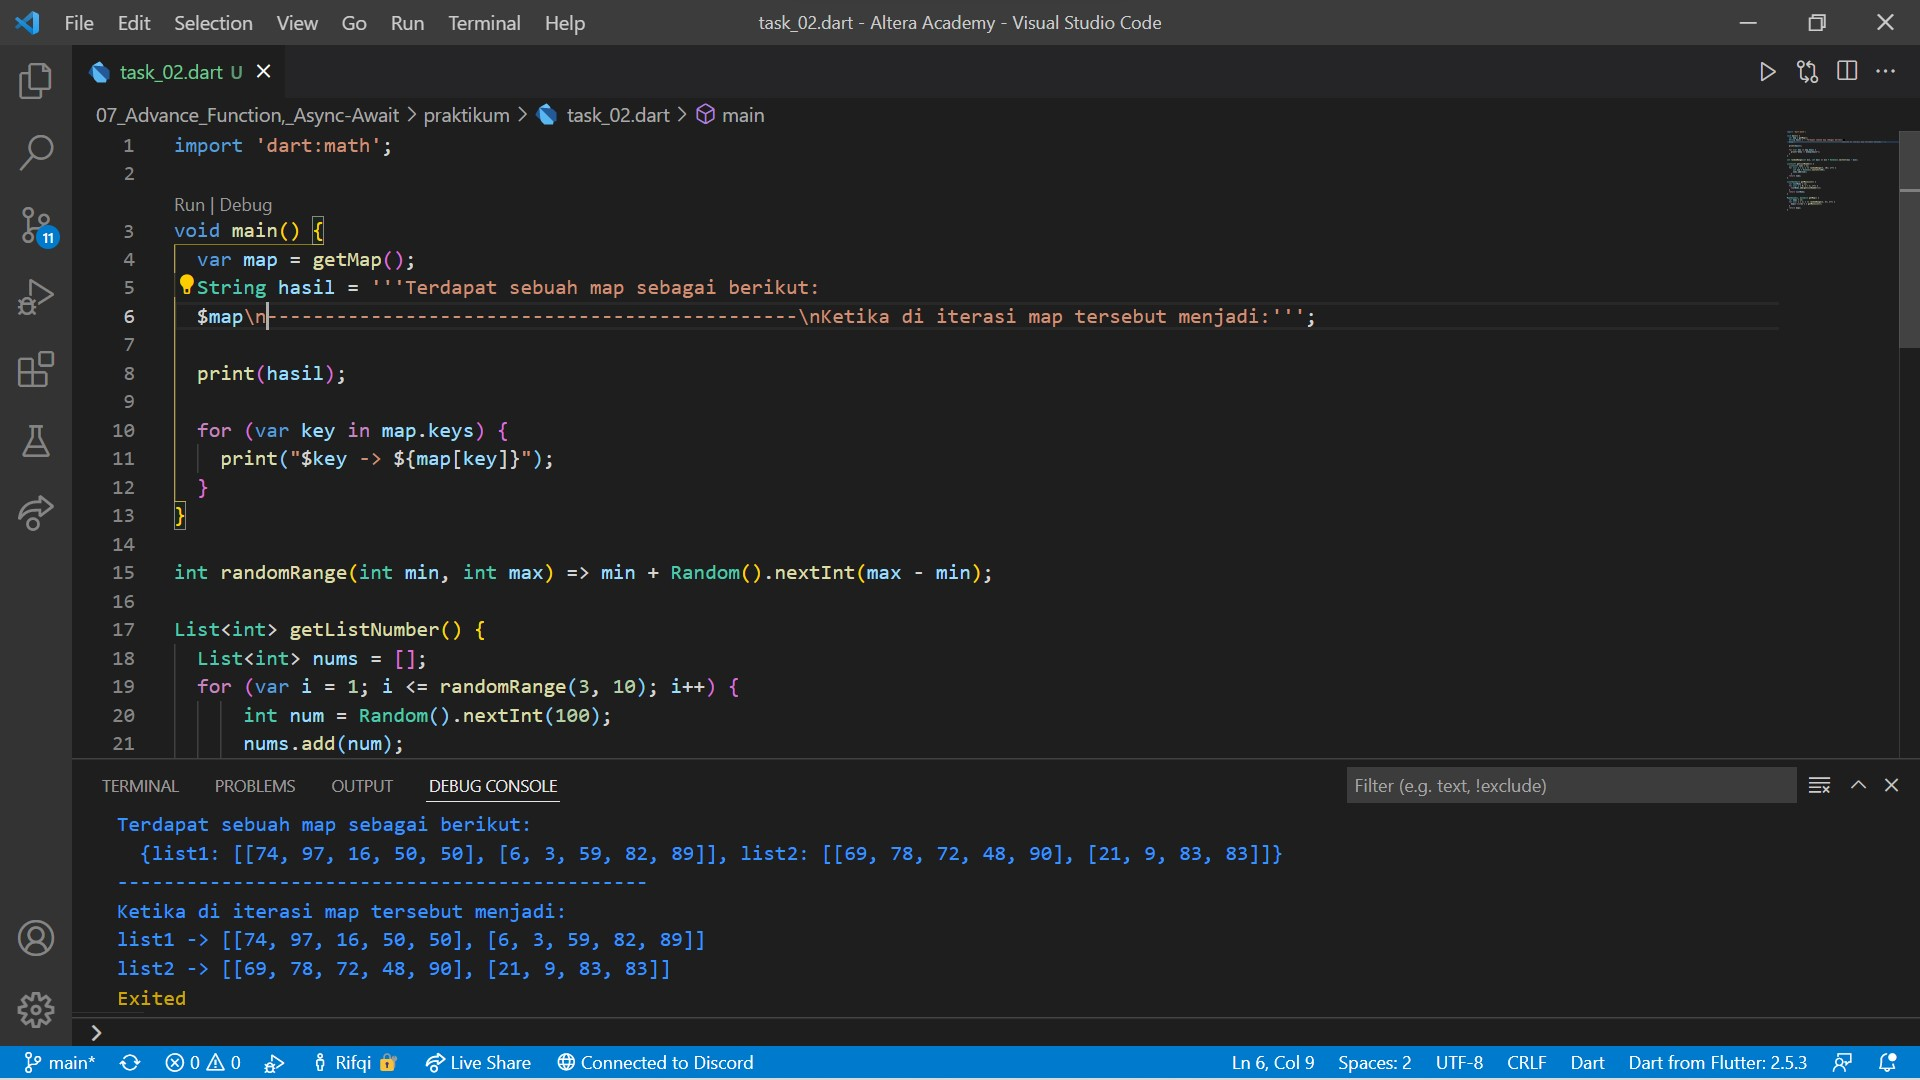
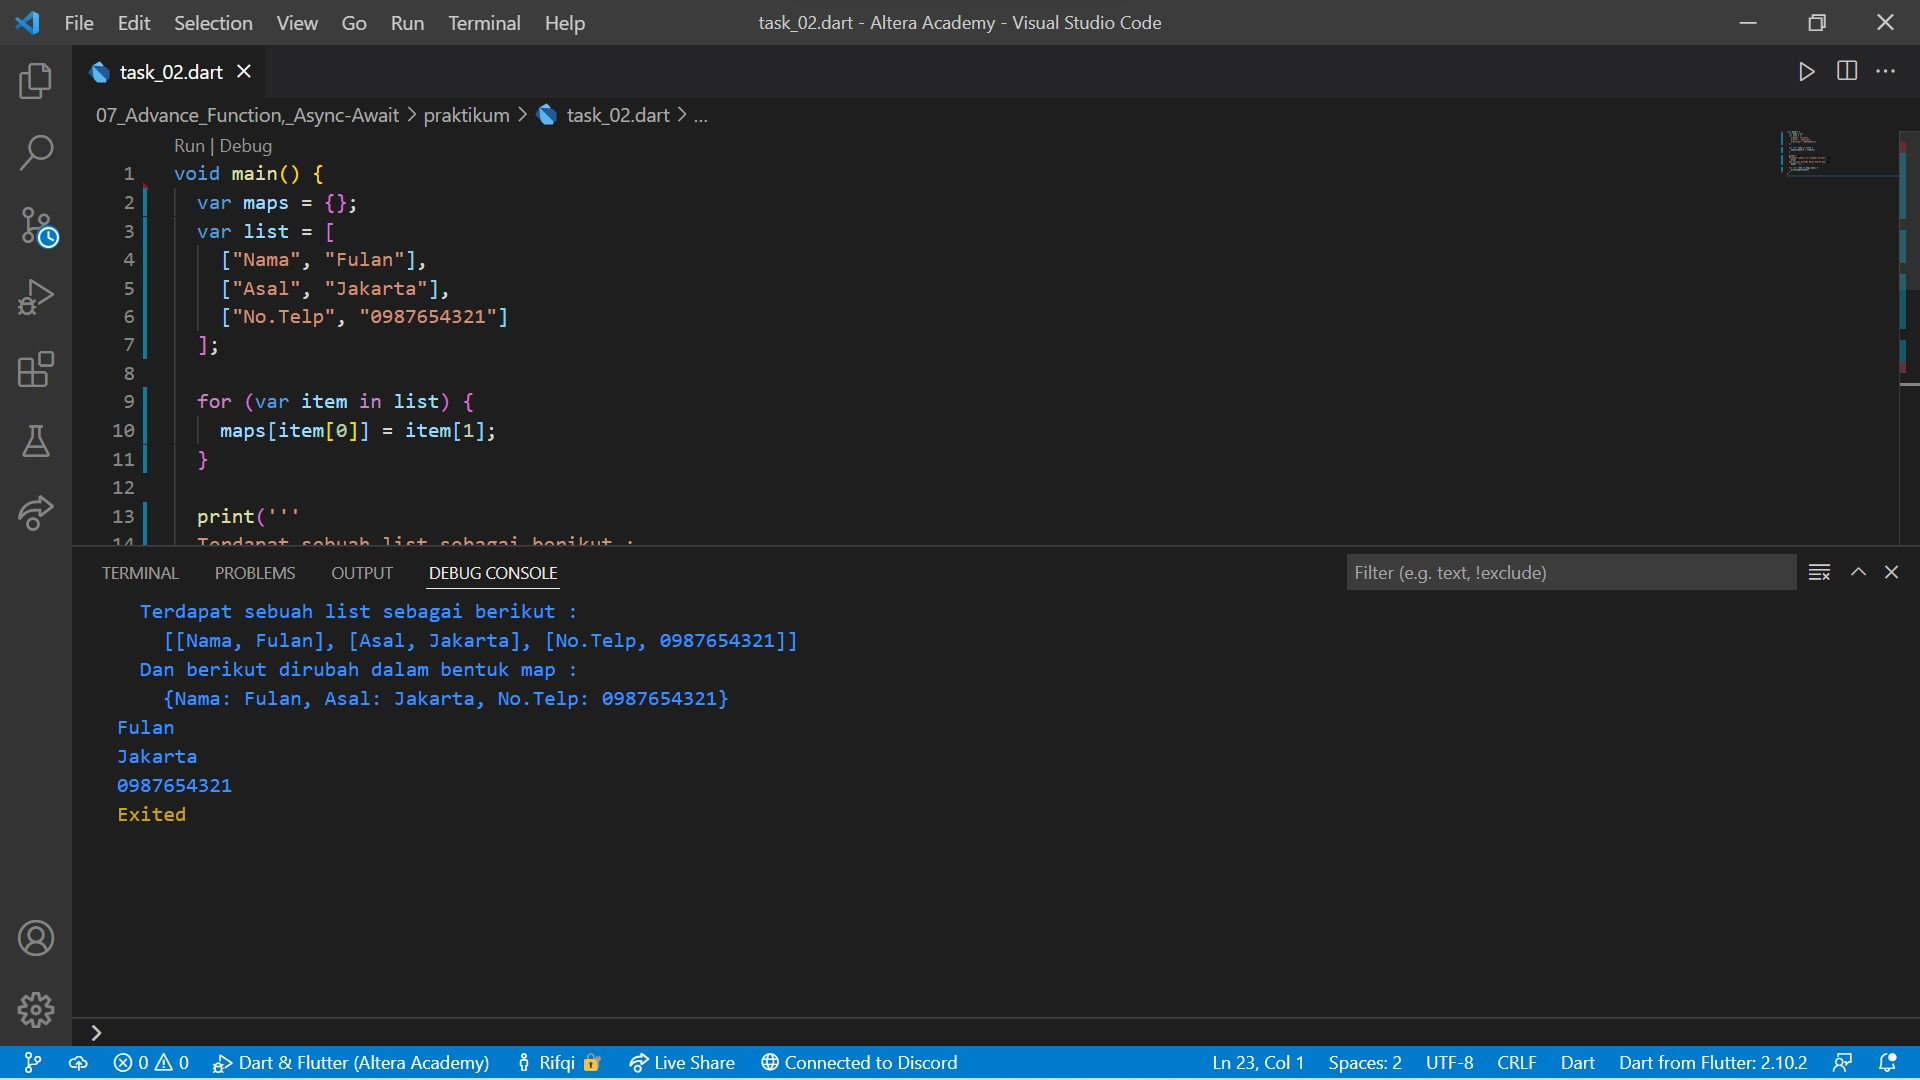
update task section 07 & 08

diff --git a/07_Advance_Function,_Async-Await/praktikum/task_02.dart b/07_Advance_Function,_Async-Await/praktikum/task_02.dart
@@ -1,40 +1,22 @@
-import 'dart:math';
-
 void main() {
-  var map = getMap();
-  String hasil = '''Terdapat sebuah map sebagai berikut:
-  $map\n----------------------------------------------\nKetika di iterasi map tersebut menjadi:''';
-
-  print(hasil);
-
-  for (var key in map.keys) {
-    print("$key -> ${map[key]}");
-  }
-}
-
-int randomRange(int min, int max) => min + Random().nextInt(max - min);
-
-List<int> getListNumber() {
-  List<int> nums = [];
-  for (var i = 1; i <= randomRange(3, 10); i++) {
-      int num = Random().nextInt(100);
-      nums.add(num);
-    }
-  return nums;
-}
-
-List<dynamic> getMainList() {
-  var listNums = [];
-  for (var i = 0; i < 2; i++) {
-    listNums.add(getListNumber());
-  }
-  return listNums;
-}
-
-Map<dynamic, dynamic> getMap() {
   var maps = {};
-  for (var i = 1; i <= randomRange(2, 5); i++) {
-    maps['list$i'] = getMainList();
+  var list = [
+    ["Nama", "Fulan"],
+    ["Asal", "Jakarta"],
+    ["No.Telp", "0987654321"]
+  ];
+
+  for (var item in list) {
+    maps[item[0]] = item[1];
   }
-  return maps;
+
+  print('''
+  Terdapat sebuah list sebagai berikut : 
+    $list
+  Dan berikut dirubah dalam bentuk map :
+    $maps''');
+
+  for (var item in maps.keys) {
+    print(maps[item]);
+  }  
 }

diff --git a/08_Collection/praktikum/task_02.dart b/08_Collection/praktikum/task_02.dart
@@ -1,40 +1,22 @@
-import 'dart:math';
-
 void main() {
-  var map = getMap();
-  String hasil = '''Terdapat sebuah map sebagai berikut:
-  $map\n----------------------------------------------\nKetika di iterasi map tersebut menjadi:''';
-
-  print(hasil);
-
-  for (var key in map.keys) {
-    print("$key -> ${map[key]}");
-  }
-}
-
-int randomRange(int min, int max) => min + Random().nextInt(max - min);
-
-List<int> getListNumber() {
-  List<int> nums = [];
-  for (var i = 1; i <= randomRange(3, 10); i++) {
-      int num = Random().nextInt(100);
-      nums.add(num);
-    }
-  return nums;
-}
-
-List<dynamic> getMainList() {
-  var listNums = [];
-  for (var i = 0; i < 2; i++) {
-    listNums.add(getListNumber());
-  }
-  return listNums;
-}
-
-Map<dynamic, dynamic> getMap() {
   var maps = {};
-  for (var i = 1; i <= randomRange(2, 5); i++) {
-    maps['list$i'] = getMainList();
+  var list = [
+    ["Nama", "Fulan"],
+    ["Asal", "Jakarta"],
+    ["No.Telp", "0987654321"]
+  ];
+
+  for (var item in list) {
+    maps[item[0]] = item[1];
   }
-  return maps;
+
+  print('''
+  Terdapat sebuah list sebagai berikut : 
+    $list
+  Dan berikut dirubah dalam bentuk map :
+    $maps''');
+
+  for (var item in maps.keys) {
+    print(maps[item]);
+  }  
 }
